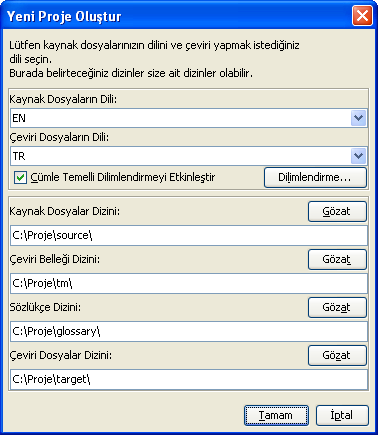
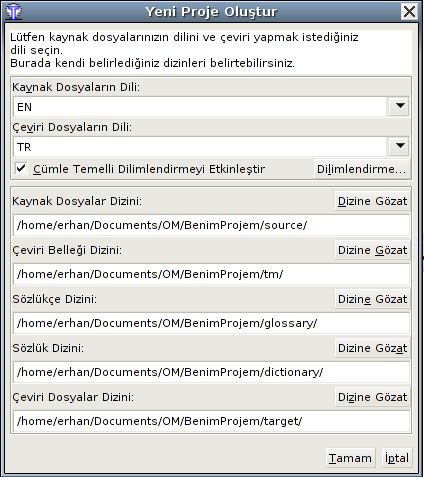
Turkish localisation updated to 2.0.5
git-svn-id: https://omegat.svn.sourceforge.net/svnroot/omegat/trunk@2416 b0d8beef-cb45-0410-a8e4-c0d495c3b779

diff --git a/docs/tr/instantStartGuideNoTOC.html b/docs/tr/instantStartGuideNoTOC.html
@@ -1,200 +1,165 @@
 <html>
 <head>
-   <meta http-equiv="content-type" content="text/html; charset=UTF-8">
-   <title>Hızlı Başlangıç Kılavuzu - OmegaT 1.6.2 Kullanıcı Kılavuzu</title>
+  <link rel="stylesheet" href="./OmegaT.css" type="text/css">
+  <meta http-equiv="content-type" content="text/html; charset=UTF-8">
+
+  <title>Hızlı Başlangıç Kılavuzu - OmegaT 2.0 Kullanıcı Kılavuzu</title>
 </head>
+
 <body>
+  <h2>5 dakikada OmegaT kullanmaya başlayın!<br> - Hızlı Başlangıç Kılavuzu</h2>
 
-<h1>Hızlı Başlangıç Kılavuzu</h1>
-<p>ya da <strong>5 dakikada OmegaT kullanmaya başlayın</strong></p>
+  <p>Bu hızlı başlangıç kılavuzu sadece son derece temel hususları içerir. İdeal olarak tüm kullanıcılar OmegaT'nin tüm özellikleriyle tanışmak için kullanıcı kılavuzunu okumalıdır. Bu belgede anlatılan kısayollarda "ctrl+tuş" ifadeleri kullanılmaktadır; Mac kullanıcıları bunu "cmd+tuş" şeklinde okumalıdır. "cmd" tuşu Apple klavyelerinde üzerinde "command" etiketi ya da elma işareti olan tuştur.</p>
+  <hr>
+  <a name="summary" id="summary"></a>
 
-<p><strong>Bu hızlı başlangıç kılavuzu sadece son derece temel hususları içerir. İdeal olarak tüm kullanıcılar OmegaT'nin tüm özellikleriyle tanışmak için kullanıcı kılavuzunu okumalıdır. Kullanıcı Kılavuzunu görüntülemek için "F1" tuşuna başın. Bu belgede anlatılan kısayollarda "ctrl+tuş" ifadeleri kullanılmaktadır; Mac kullanıcıları bunu "cmd+tuş" şeklinde okumalıdır. "cmd" tuşu Apple klavyelerinde üzerinde "elma" işareti olan tuştur.</strong></p>
+  <h2>Kısaca, OmegaT nasıl çalışır</h2>
 
-<h2>İçindekiler</h2>
-   <ol><li>Kısaca, OmegaT nasıl çalışır</li>
-   <li>OmegaT kullanılarak nasıl çeviri yapılır</li>
-   <li>Etiketli metinlerle nasıl çalışılır</li></ol>
+  <p>OmegaT ekranı üç penceresi olan ortak bir alandan oluşur. Bu üç pencerenin her biri fare kullanılarak istenilen şekilde boyutlandırılabilir. Sol kısımda çevirilerinizi girdiğiniz Düzenleyici vardır. Sağ kısımda üste Eşleşme Göstericisi bulunur; bu pencerede çeviri belleğinden gelen eşleşmeler görüntülenir. Altta Sözlükçe Göstericisi vardır; bu pencerede sözlükçeden gelen eşleşmeler görüntüler.</p>
 
-<hr>
+  <p>Düzenleyici penceresinde OmegaT, kaynak metni cümleler haline 'dilimlendirilmiş' kaynak metni gösterir. Bu dilimler tek tek tercüme edilir. Bir dilimden diğerine geçerken çevirileriniz çeviri belleğine kaydedilir. Tüm dilimler tercüme edildikten sonra (ya da isterseniz herhangi bir anda) OmegaT çeviri belleğini kullanarak çeviri belgelerinizi "target" dizininde oluşturur.</p>
 
-<a name="Briefly.2C_how_OmegaT_works"></a>
-<h2>1. Kısaca, OmegaT nasıl çalışır</h2>
+  <p>OmegaT, çeviri çalışmalarınız çeviri projeleri halinde düzenler. Her proje için bir dizi dizin oluşturulur. Bu dizinler tercüme edilecek kaynak belgelerini, kullanmak istediğiniz sözlükçeleri ve yararlanmak istediğiniz çeviri bellekleri saklamakta kullanılır. OmegaT ayrıca tercümesi yapılmış nihai belgeleri içeren bir "target" dizini de oluşturur.</p>
+  <hr>
+  <a name="translate" id="translate"></a>
 
-<p>OmegaT ekranı üç ana pencereden oluşur. Bu üçe pencerenin her biri fare kullanılarak istenilen şekilde boyutlandırılabilir. Sol kısımda çevirilerinizi girdiğiniz Düzenleyici vardır. Sağ kısımda üste Eşleşme Göstericisi bulunur; be pencerede çeviri belleğinden gelen eşleşmeler görüntülenir. Altta Sözlükçe Göstericisi vardır; bu pencerede sözlükçeden gelen eşleşmeler görüntüler.</p>
+  <h2>OmegaT kullanılarak nasıl çeviri yapılır</h2><a name="create" id="create"></a>
 
-<p>Düzenleyicisi penceresinde OmegaT, cümleler (ya da paragraflar - "<strong>F1</strong>" tuşuna basarak Kılavuza bakınız) halinde 'dilimlendirilmiş' kaynak metni gösterir. Bu dilimler tek tek tercüme edilir. Bir dilimden diğerine geçerken çevirileriniz çeviri belleğine kaydedilir. Tüm dilimler tercüme edildikten sonra (ya da isterseniz daha önce) OmegaT çeviri belleğini kullanarak çeviri belgelerinizi "target" dizininde oluşturur.</p>
+  <h3>Yeni bir proje oluşturun ve açın.</h3>
 
-<p>OmegaT, çeviri çalışmalarınız çeviri projeleri halinde düzenler. Her proje için bir dizi dizin oluşturulur. Bu dizinler tercüme edilecek kaynak belgelerini, kullanmak istediğiniz sözlükçeleri ve yararlanmak istediğiniz çeviri bellekleri saklamakta kullanılır. OmegaT ayrıca tercümesi yapılmış nihai belgeleri içeren bir "target" dizini de oluşturur.</p>
+  <p>Menüden <strong>Proje → Yeni...</strong> başlıklarını seçin.</p>
 
-<hr>
-<a name="How_to_translate_using_OmegaT"></a>
-<h2>2. OmegaT kullanılarak nasıl çeviri yapılır</h2>
+  <p>Proje dosyalarını kaydetmek istediğiniz dizine gidin ve çeviri projeniz için bir ad girin. Bu ad ana proje dizininin de adı olarak kullanılacaktır; tüm proje dosyaları bu dizinin ya da altdizinlerinin içinde saklanacaktır.</p>
 
-<a name="Create_and_open_a_new_project"></a>
-<h3>a. Yeni bir proje oluşturun ve açın.</h3>
+  <p>OmegaT, aşağıdaki diyalog kutucuğunu gösterecek ve sizden oluşturulacak proje dosyalarını teyit etmenizi ya da değiştirmenizi isteyecektir.</p>
 
-<p>Menüden <strong>Proje → Yeni...</strong> başlıklarını seçin.</p>
+  <p align="center"><img src="images/NewProject.png" name="graphics1" alt=
+  "Proje ayarları penceresi" id="graphics1" align="bottom" border="0"></p>
 
-<p>Proje dosyalarını kaydetmek istediğiniz dizine gidin ve çeviri projeniz için bir ad girin. Bu ad ana proje dizininin de adı olarak kullanılacaktır; tüm proje dosyaları bu dizinin ya da altdizinlerinin içinde saklanacaktır.</p>
+  <p>Altdizinlerin konumunu kabul edebilirsiniz, ancak öncelikle kaynak ve çeviri dili kodlarının doğru olduğundan emin olun. Listeden dil kodunu (iki harfli) ya da dil ve bölge kodunu (iki + iki harfli) seçin ya da kendiniz girin (dil kodu iki ya da üç harfli olabilir). Hedef altdizininin (target) konumunu unutmayın (tercümesi yapılmış dosyaları buradan alacaksınız). Eğer OmegaT'nin paragraf temelli değil de cümle temelli dilimlendirme yapmasını istiyorsanız, Dilimlendirme Kurallarını kontrol etmeniz iyi olur.</p>
 
-<p>OmegaT, aşağıdaki diyalog kutucuğunu gösterecek ve sizden oluşturulacak proje dosyalarını teyit etmenizi ya da değiştirmenizi isteyecektir.</p>
+  <p>Proje ayarlarını kabul etmek için Tamam tuşuna tıkladığınızda OmegaT sizden projenize ekleyeceğiniz dosyaları seçmenizi isteyecektir. Tek tek dosyaları ya da tüm bir dizini (içindeki tüm dosyalar ve alt dosyalarla) projenize ekleyebilirsiniz. Eğer yanlış belgeleri eklemişseniz ya da çok fazla belge eklemişseniz OmegaT  projesinin kaynak altdizininden (source) istediğiniz belgeleri silebilirsiniz (mesela işletim sisteminizin dosya yöneticisini kullanarak).</p>
 
-<center><img src="images/NewProject.png" alt="Proje ayarları penceresi" ></center>
+  <p>Tercümesi yapılacak dosyaların listesini kontrol etmek için <strong>Proje Dosyaları</strong> penceresine bakın (Otomatik olarak açılmazsa menü: <strong>Proje → Proje Dosyaları...</strong>). Kaynak altdizininin içeriğini değiştirmek zorunda kalmışsanız projenizi yeniden yüklemeyi unutmayın (Menü: <strong>Proje → Yeniden Yükle</strong>). OmegaT varsayılan olarak projedeki ilk dosyayı açar. Unutmayın, OmegaT sadece aşağıdaki formatlardaki dosyaları, dosya filtreleri kısmında tanımlanan örüntülere karşılık gelmeleri halinde tercüme edebilir. Diğer dosyalar gözardı edilir.</p>
 
-<p>Altdizinlerin konumunu kabul edebilirsiniz, ancak öncelikle kaynak ve çeviri dili kodlarının doğru olduğundan emin olun. Listeden dil kodunu (iki harfli) ya da dil ve bölge kodunu (iki + iki harfli) seçin ya da kendiniz girin (iki harfli örüntüye riayet edin). Hedef altdizininin (target) konumunu unutmayın (tercüme yapılmış dosyaları buradan alacaksınız).</p>
+  <ul>
+    <li>OpenDocument/OpenOffice.org</li>
 
-<p>Eğer OmegaT'nin paragraf temelli değil de cümle temelli dilimlendirme yapmasını istiyorsanız, Dilimlendirme Kurallarını kontrol etmeniz iyi olur.</p>
+    <li>Düz metin</li>
 
-<p>Proje ayarlarını kabul etmek için Tamam tuşuna tıkladığınızda OmegaT sizde projenize ekleyeceğiniz dosyaları seçmenizi isteyecektir. Tek tek dosyaları ya da tüm bir dizini (içindeki tüm dosyalar ve alt dosyalarla) projenize ekleyebilirsiniz. Eğer yanlış belgeleri eklemişseniz ya da çok fazla belge eklemişseniz OmegaT  projesinin kaynak altdizininden (source) istediğiniz belgeleri silebilirsiniz (sözgelimi işletim sisteminizin dosya yöneticisini kullanarak).</p>
+    <li>.po</li>
 
-<p>Tercümesi yapılacak dosyaların listesini kontrol etmek için <strong>Proje Dosyaları</strong> penceresine bakın (Otomatik olarak açılmazsa menü: <strong>Proje → Proje Dosyaları...</strong>). Kaynak altdizininin içeriğini değiştirmek zorunda kalmışsanız projenizi yeniden yüklemeyi unutmayın (Menü: <strong>Proje → Yeniden Yükle</strong>). OmegaT varsayılan olarak projedeki ilk dosyayı açar.</p>
+    <li>Bundle.properties Java</li>
 
-<p>Unutmayın, OmegaT sadece aşağıdaki formatlardaki dosyaları tercüme edebilir. Diğer dosyalar gözardı edilir.<ul>
-<li>Açık Belge Formatı (ODF ISO/IEC 26300)</li>
-<li>OpenOffice.org </li>
-<li>XHTML, HTML </li>
-<li> HTML Yardım Derleyicisi (HHC)</li>
-<li>DocBook </li>
-<li>düz metin</li>
-<li>bundle.properties Java </li>
-<li>tek dilli .po</li>
-<li>INI ('anahtar=değer' formatı)</li>
-</ul>
-</p>
+    <li>XHTML, HTML</li>
 
-<a name="Translate_the_segments_one_by_one"></a>
-<h3>b. Dilimleri tek tek tercüme edin.</h3>
+    <li>HTML Yardım Derleyicisi</li>
 
-<p>Projeyi ve tercümesi yapılacak dosyaları belirledikten sonra OmegaT, birinci kaynak dosyayı Düzenleyicide açar. Birinci dilim yeşil bir fonda gösterilir; kaynak metnin bir kopyası da hemen onun altında "hedef alanında" gösterilir. (Bu noktada, hedef alanı dışındaki tüm metin korunmuştur ve değiştirilemez). Kaynak metni silerek, tercümenizi &lt;dilim 0001&gt; ile &lt;dilim sonu&gt; etiketleri arasına girmeniz gereklidir.</p>
+    <li>INI ('anahtar=değer' formatı)</li>
 
-<p>Bir sonraki dilime gitmek için "<strong>ENTER</strong>" tuşuna basın.</p>
+    <li>DocBook</li>
 
-<p>Not:<br> - Metnin herhangi bir bölümüne gitmek için açmak isteğiniz cümle ya da paragraf üzerinde fareye çift tıklayın." <br> - Hedef alanının boş olmasını tercih ediyorsanız  <strong>Seçenekler → Düzenleme Seçenekleri...</strong> alt-menüsünden ayarlama yapabilirsiniz.</p>
+    <li>Microsoft Open XML</li>
 
-<p>"<strong>ENTER</strong>" tuşuna bastığınızda arkaplanda gerçekleşen şeyler vardır: <br> OmegaT, dilim çiftini (kaynak dilim ve çevirisi) çeviri belleğine ekler ve diğer proje dosyalarında tespit ettiği özdeş dilimleri de otomatik olarak tercüme eder. Ayrıca bir sonraki tercüme edilmemiş dilim için eşleşme olup olmadığını bulmak için çeviri belleğini ve sözlükçeyi de tarar.</p>
+    <li>Okapi tekdilli XLIFF</li>
 
-<a name="Use_TM_and_glossary_matches"></a>
-<h3>c. Çeviri belleği ve sözlükçe eşleşmelerini kullanın.</h3>
+    <li>QuarkXPress CopyFlowGold</li>
 
-<a name="TM_matches"></a>
-<h4>1. Çeviri belleği eşleşmeleri</h4>
+    <li>Altyazı dosyaları (SRT)</li>
 
-<p>Eğer OmegaT bir sonraki dilim için çeviri belleğinden herhangi bir bulanık eşleşme (%30 ve üzer - kılavuza bakın), bu eşleşmeyi Eşleşme Göstericisinde görüntüler. Eşleşme Göstericisinde birinci eşleşme varsayılan olarak seçili durumdadır.</p>
-<p>Eşleşme Göstericisinden hedef alanına çeviri belleğinden gelen eşleşmeleri eklemek için klavye kısayollarını kullanabilirsiniz:<br>
-<ul>
-   <li>Seçili durumdaki eşleşmeyi imleç konumundan eklemek için <code>Ctrl+I</code> tuşlarına basın...</li>
-   <li>Seçili durumdaki eşleşmeyi tüm dilimin üzerine yazmak için <code>Ctrl+R</code> tuşlarına basın.</li>
-</ul>
-</p>
+    <li>ResX</li>
 
-<p>Eğer birkaç eşleşme varsa ve seçili durumdaki eşleşmeyi kullanmak istemiyorsanız:<br>
-<ul>
-	<li>Eşleşme Göstericisinde tercih ettiğiniz eşleşmeyi seçin: ikinci eşleşme için <code>Ctrl+2</code>, üçüncü eşleşme için <code>Ctrl+3</code>, hakeza.</li>
-	<li>Sonra yukarıdaki anlatıldığı üzere <code>Ctrl+I</code> ya da <code>Ctrl+R</code> kısayollarını kullanın.</li>
-</ul>
-</p>
+    <li>Android kaynak dosyaları</li>
 
-<p>(OmegaT'nin bir dilim açıldığında belirtilen bir eşleşme yüzdesinin üzerinde olan birinci eşleşmeyi otomatik olarak hedef alanına eklemesini sağlayabilirsiniz. Bu seçeneği <strong>Seçenekler → Düzenleme Seçenekleri...</strong> alt-menüsünden ayarlayabilirsiniz)</p>
+    <li>LaTeX</li>
+  </ul><a name="segments" id="segments"></a>
 
-<a name="Glossary_matches"></a>
-<h4>2. Sözlükçe eşleşmeleri</h4>
+  <h3>Dilimleri tek tek tercüme edin</h3>
 
-<p>Eğer OmegaT sözlükçede %100 eşleşen terimler bulursa bunları Sözlükçe Göstericisinde referans amaçlı olarak görüntüler. Bu eşleşmeleri kısayollar kullanarak aktarmak mümkün değildir.</p>
+  <p>Projeyi ve tercümesi yapılacak dosyaları belirledikten sonra OmegaT, birinci kaynak dosyayı Düzenleyicide açar. Birinci dilim yeşil bir fonda gösterilir; kaynak metnin bir kopyası da hemen onun altında "hedef alanında" gösterilir. (Bu noktada, hedef alanı dışındaki tüm metin korunmuştur ve değiştirilemez). Kaynak metni silerek, tercümenizi <code>&lt;dilim 0001&gt;</code> ile <code>&lt;dilim sonu&gt;</code> etiketleri arasına girmeniz gereklidir. Bir sonraki dilime gitmek için "<strong>ENTER</strong>" tuşuna basın. Not:</p>
 
-<a name="Create_the_translated_documents"></a>
-<h3>d. Çeviri belgelerini oluşturun.</h3>
+  <ul>
+    <li>Metnin herhangi bir bölümüne gitmek için açmak isteğiniz cümle ya da paragraf üzerinde fareye çift tıklayın.</li>
 
-<p>Tüm dilimleri tercüme ettikten sonra (ya da isterseniz daha önce) OmegaT çeviri belleğinden saklanan çevirileri kullanarak hedef belgelerini güncelleyecektir.</p>
+    <li>Hedef alanının boş olmasını tercih ediyorsanız  <strong>Seçenekler → Düzenleme Seçenekleri...</strong> alt-menüsünden ayarlama yapabilirsiniz.</li>
+  </ul>
 
-<p>Bunun için menüden <strong>Proje → Çeviri Belgelerini Oluştur</strong> alt-menüsünü seçin.</p>
+  <p>"<strong>ENTER</strong>" tuşuna bastığınızda arkaplanda gerçekleşen şeyler vardır: OmegaT, dilim çiftini (kaynak dilim ve çevirisi) çeviri belleğine ekler ve diğer proje dosyalarında tespit ettiği özdeş dilimleri de otomatik olarak tercüme eder. Ayrıca bir sonraki tercüme edilmemiş dilim için eşleşme olup olmadığını bulmak için çeviri belleğini ve sözlükçeyi de tarar.</p><a name="tm" id="tm"></a>
 
-<p>OmegaT, ister tamamen isterse kısmen tercüme edilmiş olsun projenin kaynak dizininde bulunan tercüme edilebilir tüm dosyaların tercüme edilmiş hallerini oluşturacaktır. Dosyaların tercüme edilmiş halleri projenin hedef (target) dizinine kaydedilecektir.</p>
+  <h3>Çeviri belleğinizi ve sözlük ve sözlükçe eşleşmelerini kullanmak</h3><a name="tm_matches" id="tm_matches"></a>
 
-<p>Tercüme işlemine son vermeden önce hedef dizinindeki dosyaları ilişkili uygulamalarla (web tarayıcı, kelime işlemci, ...) açarak tercümenizin formatını ve içeriğini kontrol edin. OmegaT'ye geri dönüp gerekli düzeltmeleri yapabilirsiniz; çeviri belgelerini yeniden oluşturmayı unutmayın.</p>
+  <h3>Çeviri belleği eşleşmeleri</h3>
 
-<hr>
-<a name="Dealing_with_tagged_text"></a>
-<h2>3. Etiketli metinlerle nasıl çalışılır</h2>
+  <p>Eğer OmegaT bir sonraki dilim için çeviri belleğinden herhangi bir bulanık eşleşme (%30 ve üzeri), bu eşleşmeyi Eşleşme Göstericisinde görüntüler. Eşleşme Göstericisinde birinci eşleşme varsayılan olarak seçili durumdadır. Eşleşme Göstericisinden hedef alanına çeviri belleğinden gelen eşleşmeleri eklemek için klavye kısayollarını kullanabilirsiniz:</p>
 
-<p>OmegaT, kaynak belgelerin formatının (kalın, italik, vb.) kaybolmaması için özel etiketler kullanır. OmegaT'nin kullandığı etiketler bir ya da birkaç harften ve bunlarında ardından gelen bir ya da birkaç rakamdan oluşur ve zaman zaman "/" karakteri kullanılır (sözgelimi: &lt;f0&gt;, &lt;br10/&gt;, &lt;/s2&gt; gibi).</p>
+  <ul>
+    <li>Seçili durumdaki eşleşmeyi imleç konumundan eklemek için <code>Ctrl+I</code> tuşlarına basın...</li>
 
-<p>Bu etiketler konusunda dikkatli olmalısınız ve bu etiketlerin hedef dilimlerde bulunduğundan emin olmalısınız. (Etiketlerin düzenlenmesi konusunda daha fazla bilgi için OmegaT Kullanıcı Kılavuzuna başvurun).</p>
+    <li>Seçili durumdaki eşleşmeyi tüm dilimin üzerine yazmak için <code>Ctrl+R</code> tuşlarına basın.</li>
+  </ul>
 
-<a name="An_example..."></a>
-<h3>a. Bir örnek...</h3>
+  <p>Eğer birkaç eşleşme varsa ve seçili durumdaki eşleşmeyi kullanmak istemiyorsanız:</p>
 
-<p>Bu örneklerde kolay görülmesi için etiketleri <font color="#ff0000">kırmızı</font> olarak belirttik, ancak OmegaT'de etiketler bu şekilde gösterilmemektedir.</p>
+  <ul>
+    <li>Eşleşme Göstericisinde tercih ettiğiniz eşleşmeyi seçin: ikinci eşleşme için <code>Ctrl+2</code>, üçüncü eşleşme için <code>Ctrl+3</code>, hakeza.</li>
 
-<p>
-<strong>Aşağıda HTML'deki bir dilime örnek görülmektedir:</strong>
-</p>
+    <li>Sonra yukarıdaki anlatıldığı üzere <code>Ctrl+I</code> ya da <code>Ctrl+R</code> kısayollarını kullanın.</li>
+  </ul>
 
-<p>
-<code><font color="#ff0000">&lt;p&gt;</font>A different display font can be 
-selected via the <font color="#ff0000">&lt;b&gt;</font>Display 
-Font<font color="#ff0000">&lt;/b&gt;</font> dialog.  Open it via the 
+  <p>(OmegaT'nin bir dilim açıldığında belirtilen bir eşleşme yüzdesinin üzerinde olan birinci eşleşmeyi otomatik olarak hedef alanına eklemesini sağlayabilirsiniz. Bu seçeneği <strong>Seçenekler → Düzenleme Seçenekleri...</strong> alt-menüsünden ayarlayabilirsiniz)</p><a name="gloss_matches" id="gloss_matches"></a>
 
-<font color="#ff0000">&lt;i&gt;</font>Settings<font color="#ff0000">&lt;/i&gt;</font> 
-&amp;gt; <font color="#ff0000">&lt;i&gt;</font>Display 
-Font...<font color="#ff0000">&lt;/i&gt;</font> menu item.  The font type and 
-size can be changed from the dialog.<font color="#ff0000">&lt;/p&gt;</font></code>
-</p>
+  <h3>Sözlük ve sözlükçe eşleşmeleri</h3>
 
-<p>
-<strong>Aşağıda OmegaT'de bu dilimin nasıl görüneceği görülmektedir (kırmızıyla işaretli):</strong>
-</p>
+  <p>Eğer OmegaT projenize kattığınız sözlük ya da sözlükçelerinizde eşleşen terimler bulursa bunları sözlük ve sözlükçe göstericilerinde referans amaçlı olarak görüntüler.&nbsp;</p><a name="searches" id="searches"></a>
 
-<p>
-<code>A different display font can be selected via the 
-<font color="#ff0000">&lt;b0&gt;</font>Display 
-Font<font color="#ff0000">&lt;/b0&gt;</font> dialog.  Open it via the 
+  <h3>Aramaları kullanmak</h3>
 
-<font color="#ff0000">&lt;i1&gt;</font>Settings<font color="#ff0000">&lt;/i1&gt;</font> 
-&gt; <font color="#ff0000">&lt;i2&gt;</font>Display 
-Font...<font color="#ff0000">&lt;/i2&gt;</font> menu item.  The font type and 
-size can be changed from the dialog.</code>
-</p>
+  <p>OmegaT detaylı aramalar yapmanızı sağlayacak arama fonksiyonları sunmaktadır. <code>Ctrl+F</code> tuşlarına basarak Arama penceresini çağırabilir ve "Aranacak ifade" kutucuğuna aramak istediğiniz kelime ya da ifadeyi girebilirsiniz. Diğer bir yöntem de metin içinde aramak istediğiniz kelime ya da ifadeyi seçip <code>Ctrl+F</code> tuşlarına basmaktır. Bu durumda seçtiğiniz kelime ya da ifade otomatik olarak "Aranacak ifade" kutucuğuna girilmiş olacaktır.</p>
 
-<p>
-<strong>Burada ise dilimin nasıl tercüme edileceği görülmektedir (bu örnek Afrikaanca'dır):</strong>
-</p>
+  <h3>Google translate'i kullanmak</h3>
 
-<p>
-<code>'n Mens kan 'n ander vertoonfont kies met die 
-<font color="#ff0000">&lt;b0&gt;</font>Vertoonfont<font color="#ff0000">&lt;/b0&gt;</font>-dialoogkassie. 
-Kies <font color="#ff0000">&lt;i1&gt;</font>Opstelling<font color="#ff0000">&lt;/i1&gt;</font> 
+  <p>Google translate penceresinde, mevcut dilimin tercümesine ilişkin öneri otomatik olarak gösterilecektir. Bu öneriyi <code>Ctrl+M</code> tuşlarıyla hedef dilime ekleyebilirsiniz.<br></p>
 
-&gt; <font color="#ff0000">&lt;i2&gt;</font>Vertoonfont...<font color="#ff0000">&lt;/i2&gt;</font> 
-op die kieslys. Die lettertipe én die lettergrootte kan met dié 
-dialoogkassie verander word.</code>
-</p>
+  <p><a name="create_trans" id="create_trans"></a></p>
 
-<p>
-<strong>OmegaT çeviri belgeyi oluşturduğunda HTML şu şekilde görünecektir:</strong>
-</p>
+  <h3>Çeviri belgelerini oluşturmak</h3>
 
-<p>
-<code><font color="#ff0000">&lt;p&gt;</font>'n Mens kan 'n ander vertoonfont kies 
-met die <font color="#ff0000">&lt;b&gt;</font>Vertoonfont<font color="#ff0000">&lt;/b&gt;</font>-dialoogkassie. 
-Kies <font color="#ff0000">&lt;i&gt;</font>Opstelling<font color="#ff0000">&lt;/i&gt;</font> 
+  <p>Tüm dilimleri tercüme ettikten sonra (ya da isterseniz daha önce) OmegaT çeviri belleğinden saklanan çevirileri kullanarak hedef belgelerini güncelleyecektir. Bunun için menüden <strong>Proje → Çeviri Belgelerini Oluştur</strong> alt-menüsünü seçin. OmegaT, ister tamamen isterse kısmen tercüme edilmiş olsun projenin kaynak dizininde bulunan tercüme edilebilir tüm dosyaların tercüme edilmiş hallerini oluşturacaktır. Dosyaların tercüme edilmiş halleri projenin hedef (target) dizinine kaydedilecektir. Tercüme işlemine son vermeden önce hedef dizinindeki dosyaları ilişkili uygulamalarla (web tarayıcı, kelime işlemci, ...) açarak tercümenizin formatını ve içeriğini kontrol edin. OmegaT'ye geri dönüp gerekli düzeltmeleri yapabilirsiniz; çeviri belgelerini yeniden oluşturmayı unutmayın.</p>
+  <hr>
+  <a name="tags" id="tags"></a>
 
-&amp;gt; <font color="#ff0000">&lt;i&gt;</font>Vertoonfont...<font color="#ff0000">&lt;/i&gt;</font> 
-op die kieslys. Die lettertipe én die lettergrootte kan met dié 
-dialoogkassie verander word.<font color="#ff0000">&lt;/p&gt;</font></code>
-</p>
+  <h2>Etiketli metinlerle çalışmak</h2>
 
-<a name="Tag_verification"></a>
-<h3>b. Etiketlerin doğrulanması</h3>
+  <p>OmegaT, kaynak belgelerin formatının (kalın, italik, vb.) kaybolmaması için özel etiketler kullanır. OmegaT'nin kullandığı etiketler bir ya da birkaç harften ve bunlarında ardından gelen bir ya da birkaç rakamdan oluşur ve kapanışı belirtmek için "/" karakteri kullanılır (sözgelimi: &lt;f0&gt;, &lt;/f0&gt; &lt;br&gt;, &lt;/s2&gt;). Bu etiketler konusunda dikkatli olmalısınız ve bu etiketlerin uygun şekilde hedef dilimlerde bulunduğundan emin olmalısınız (bkz. <em>etiket işlemleri</em>).</p><a name="example" id="example"></a>
 
-<p>Hatalı etiket kullanımı durumunda OmegaT bunu otomatik olarak tespit edememektedir. Tercüme ettiğiniz belgeyi müşterinize teslim etmeden önce etiketlerde hata olup olmadığını kontrol etmelisiniz.</p>
+  <h3>Bir örnek...</h3>
 
-<p>Menüden <strong>Araçlar → Etiketleri Doğrula</strong> alt-menüsünü seçin. Kaynak ve hedef etiketlerinin birbiriyle örtüşmediği dilimleri içeren bir tablo görüntülenecektir. Dilim numarasına tıklayın.</p>
+  <p>Bu örneklerde kolay görülebilmeleri için etiketler işaretlenmiştir, ancak OmegaT'de etiketler bu şekilde gösterilmemektedir. <font color="blue">Mavi</font> ile işaretlenmiş HTML etiketleri dilimi tümüyle kapsadığı için OmegaT tarafından göz ardı edilecektir. Aşağıda <font color=
+  "green">yeşil</font> ile işaretlenmiş etkiler ise dilim içinde kaldığı için OmegaT tarafından işlenecektir. Aşağıda HTML'deki bir dilime örnek görülmektedir:</p>
 
-<p>Otomatik olarak Düzenleyicide hatalı dilime gideceksiniz; burada etiketlemeyi düzeltebilirsiniz.</p>
+  <p><code><font color="blue">&lt;p&gt;</font>Farklı bir yazıtipi seçmek için <font color="green">&lt;b&gt;</font>Yazıtipleri<font color=
+  "green">&lt;/b&gt;</font>diyalog kutucuğu kullanılabilir. Bu kutucuğu açmak için  <font color=
+  "green">&lt;i&gt;</font>Ayarlar<font color="green">&lt;/i&gt;</font> → <font color="green">&lt;i&gt;</font>Yazıtipleri...<font color=
+  "green">&lt;/i&gt;</font>menü başlığını seçin. Bu kutucuktan yazıtipi ve büyüklüğü değiştirilebilir.<font color="blue">&lt;/p&gt;</font></code></p>
 
-<p>Bazı durumda etiket hataları belgenin açılmasını bir engelleyebilir. Bu yüzden çeviri belgelerini oluşturmadan önce etiket hatalarını düzeltmiş olmalısınız.</p>
+  <p>Aşağıda OmegaT'de örneğin nasıl görüneceği Afrikaanca çevirisiyle birlikte gösterilmektedir:</p><br>
 
-<p>Son olarak tercüme edilmiş belgeyi ilgili görüntüleyici ya da düzenleyicide açmak suretiyle nihai formatlamayı da mutlaka kontrol etmelisiniz.</p>
-<hr>
+  <p><img src="images/tagged_segment.png" alt="" border="0" height="150" width=
+  "592"></p><br>
+
+  <p>OmegaT çeviri belgeyi oluşturduğunda HTML şu şekilde görünecektir:</p>
+
+  <p><img src="images/tagged_segment_target.png" alt="" border="0" height="122"
+  width="592"></p><a name="tag_verif" id="tag_verif"></a>
+
+  <h3>Etiketlerin doğrulanması</h3>
+
+  <p>Hatalı etiket kullanımı durumunda OmegaT bunu otomatik olarak tespit etmemektedir. Tercüme ettiğiniz belgeyi müşterinize teslim etmeden önce etiketlerde hata olup olmadığını kontrol etmelisiniz.</p>
+
+  <p>Menüden <strong>Araçlar → Etiketleri Doğrula</strong> alt-menüsünü seçin. Kaynak ve hedef etiketlerinin birbiriyle örtüşmediği dilimleri içeren bir tablo görüntülenecektir. Dilim numarasına tıklayın. Otomatik olarak Düzenleyicide hatalı dilime gideceksiniz; burada etiketlemeyi düzeltebilirsiniz. <span style="font-weight: bold;">Enter</span> basarak düzeltilen etiketi doğrulayın ve tekrar <span style=
+  "font-weight: bold;">Control-T</span> tuşlarını kullanarak düzeltmeyi kontrol edin.</p>
+
+  <p>Bazı durumlarda etiket hataları belgenin açılmasını bile engelleyebilir. Bu yüzden çeviri belgelerini oluşturmadan önce etiket hatalarını düzeltmiş olmalısınız. Son olarak tercüme edilmiş belgeyi ilgili görüntüleyici ya da düzenleyicide açmak suretiyle nihai formatlamayı da mutlaka kontrol etmelisiniz.</p>
+  <hr>
 </body>
 </html>

diff --git a/docs/tr/OmegaT.css b/docs/tr/OmegaT.css
@@ -1,0 +1,38 @@
+table, h1, h2, h3, h4 
+    {
+    color: #036;
+    font-family: sans-serif;
+    }
+
+h1
+    {
+    font-size: 18;
+    }
+h2
+    {
+    font-size: 16;
+    }
+    
+h3
+    {
+    font-size: 14;
+    }
+h4
+    {
+    font-size: 13;
+    }
+
+p, dd, dt, li, body
+    {
+    margin: 5px 5px 5px 5px;
+    padding: 0px;
+    color: #000;
+    font-family: serif;
+    }
+    
+table
+    {
+    color: #000;
+    font-family: serif;
+    border: 0;
+    }
